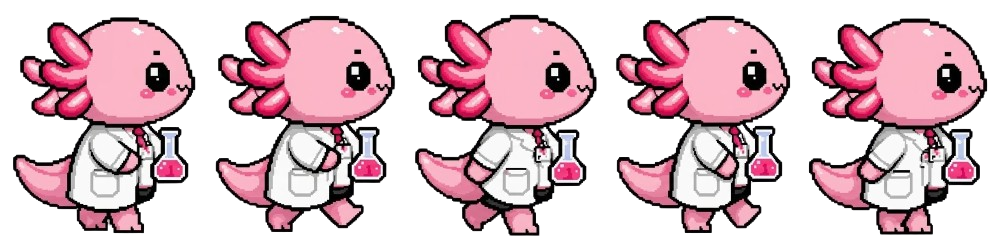
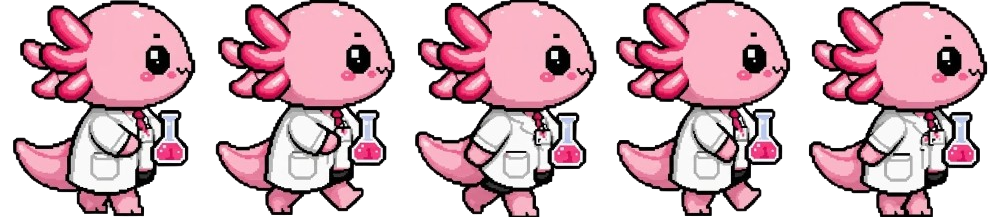
12/10 - personagem aparece "bem" definido

diff --git a/sketch.js b/sketch.js
@@ -32,7 +32,7 @@ async function setup() {
 
   alturaCenario = height;
   larguraCenario =
-    imgCenario.width * (alturaCenario / imgCenario.height);
+  imgCenario.width * (alturaCenario / imgCenario.height);
 
   x = width / 2;
   y = 10;
@@ -41,53 +41,58 @@ async function setup() {
   g = 0.8;
   largura = 100;
 
-  mapeamento = {
-    run: {
-      frames: [
-        { x: 0, y: 0 },
-        { x: 216, y: 0 },
-        { x: 432, y: 0 },
-        { x: 648, y: 0 },
-        { x: 864, y: 0 },
-        { x: 1080, y: 0 },
-        { x: 1296, y: 0 },
-        { x: 1512, y: 0 },
-      ],
-      frameWidth: 216,
-      frameHeight: 242,
-    },
+ 
+mapeamento = {
 
-    jump: {
-      frames: [
-        { x: 0, y: 0 },
-        { x: 144, y: 0 },
-        { x: 288, y: 0 },
-        { x: 432, y: 0 },
-        { x: 576, y: 0 },
-        { x: 720, y: 0 },
-        { x: 864, y: 0 },
-        { x: 1008, y: 0 },
-        { x: 1152, y: 0 },
-        { x: 1296, y: 0 },
-        { x: 1440, y: 0 },
-        { x: 1584, y: 0 },
-      ],
-      frameWidth: 144,
-      frameHeight: 254,
-    },
+run: {
+  escala: 1.45,
+  frames: [
+    { x: 0, y: 0 },
+    { x: 109, y: 0 },
+    { x: 218, y: 0 },
+    { x: 326, y: 0 },
+    { x: 435, y: 0 },
+    { x: 544, y: 0 },
+    { x: 652, y: 0 },
+    { x: 761, y: 0 },
+  ],
+  frameWidth: 109,
+  frameHeight: 122,
+},
 
-    idle: {
-      frames: [
-        { x: 0, y: 100 },
-        { x: 342, y: 100 },
-        { x: 684, y: 100 },
-        { x: 1026, y: 100 },
-        { x: 1367, y: 100 },
-      ],
-      frameWidth: 342,
-      frameHeight: 370,
-    },
-  };
+  jump: {
+    escala: 1.8,
+    frames: [
+      { x: 0, y: 0 },
+      { x: 97.75, y: 0 },
+      { x: 195.5, y: 0 },
+      { x: 293.25, y: 0 },
+      { x: 391, y: 0 },
+      { x: 488.75, y: 0 },
+      { x: 586.5, y: 0 },
+      { x: 684.25, y: 0 },
+      { x: 782, y: 0 },
+      { x: 879.75, y: 0 },
+      { x: 977.5, y: 0 },
+      { x: 1075.25, y: 0 },
+    ],
+    frameWidth: 97.75,
+    frameHeight: 173,
+  },
+
+  idle: {
+    escala: 1,
+    frames: [
+      { x: 0, y: 0 },
+      { x: 200.2, y: 0 },
+      { x: 400.4, y: 0 },
+      { x: 600.6, y: 0 },
+      { x: 800.8, y: 0 },
+    ],
+    frameWidth: 200.2,
+    frameHeight: 249,
+  },
+};
 
   imgPersonagem = {
     run: await loadImage("assets/run.png"),
@@ -268,3 +273,10 @@ function desenharJogo() {
     item.desenhar();
   }
 }
+
+function keyPressed() {
+  if (keyCode === UP_ARROW || key === " ") {
+    personagem.pular();
+  }
+}
+

diff --git a/Personagem.js b/Personagem.js
@@ -21,20 +21,33 @@ class Personagem {
     this.olhandoDireita = false;
   }
 
-  correr() {
-    if (this.animacao !== this.animacoes.run) {
-      this.animacao = this.animacoes.run;
-      this.animacao.frameAtual = 0;
-    }
-  }
+correr() {
+  this.animacoes.idle.congelada = false;
+  this.animacoes.run.congelada = false;
+  this.animacoes.jump.congelada = false;
 
-  parar() {
-    if (this.noChao) {
-      this.animacao = this.animacoes.idle;
-    } else {
-      this.animacao = this.animacoes.jump;
-    }
+  if (this.animacao !== this.animacoes.run) {
+    this.animacao = this.animacoes.run;
+    this.animacao.frameAtual = 0;
+    this.animacao.ultimoTempo = millis();
   }
+}
+
+parar() {
+  if (this.noChao) {
+    if (this.animacao !== this.animacoes.idle) {
+      this.animacao = this.animacoes.idle;
+      this.animacao.frameAtual = 0;
+      this.animacao.ultimoTempo = millis();
+    }
+
+    this.animacoes.idle.congelada = true;
+  } else {
+    this.animacao = this.animacoes.jump;
+    this.animacoes.jump.congelada = false;
+  }
+}
+
 
   aplicarGravidade() {
     this.animacao.avancarFrame();
@@ -44,11 +57,11 @@ class Personagem {
     this.vy = this.vy + GRAVIDADE;
   }
 
-  pisarNoChao(plataforma) {
-    this.y = plataforma.y - this.altura;
-    this.vy = 0;
-    this.noChao = true;
-  }
+ pisarNoChao(plataforma) {
+  this.y = plataforma.y - this.altura;
+  this.vy = 0;
+  this.noChao = true;
+}
 
   baterCabeca(plataforma) {
     this.y = plataforma.y + plataforma.altura;

diff --git a/Animacao.js b/Animacao.js
@@ -5,12 +5,16 @@ class Animacao {
     this.sprites = sprites;
     this.frameAtual = 0;
     this.ultimoTempo = 0;
+    this.congelada = false;
   }
 
   avancarFrame() {
+    // Não troca de quadro quando a animação está congelada.
+    if (this.congelada) return;
+
     let atual = millis();
 
-    if (atual - this.ultimoTempo > 100) {
+    if (atual - this.ultimoTempo >= 80) {
       this.frameAtual =
         (this.frameAtual + 1) % this.mapeamento.frames.length;
 
@@ -20,13 +24,21 @@ class Animacao {
 
   desenhar(x, y, largura, altura) {
     let quadro = this.mapeamento.frames[this.frameAtual];
+    let escala = this.mapeamento.escala || 1;
+
+    let larguraDesenho = largura * escala;
+    let alturaDesenho = altura * escala;
+
+    let xDesenho = x - (larguraDesenho - largura) / 2;
+    let yDesenho = y + altura - alturaDesenho;
+    yDesenho += 5;
 
     image(
       this.sprites,
-      x,
-      y,
-      largura,
-      altura,
+      xDesenho,
+      yDesenho,
+      larguraDesenho,
+      alturaDesenho,
       quadro.x,
       quadro.y,
       this.mapeamento.frameWidth,
